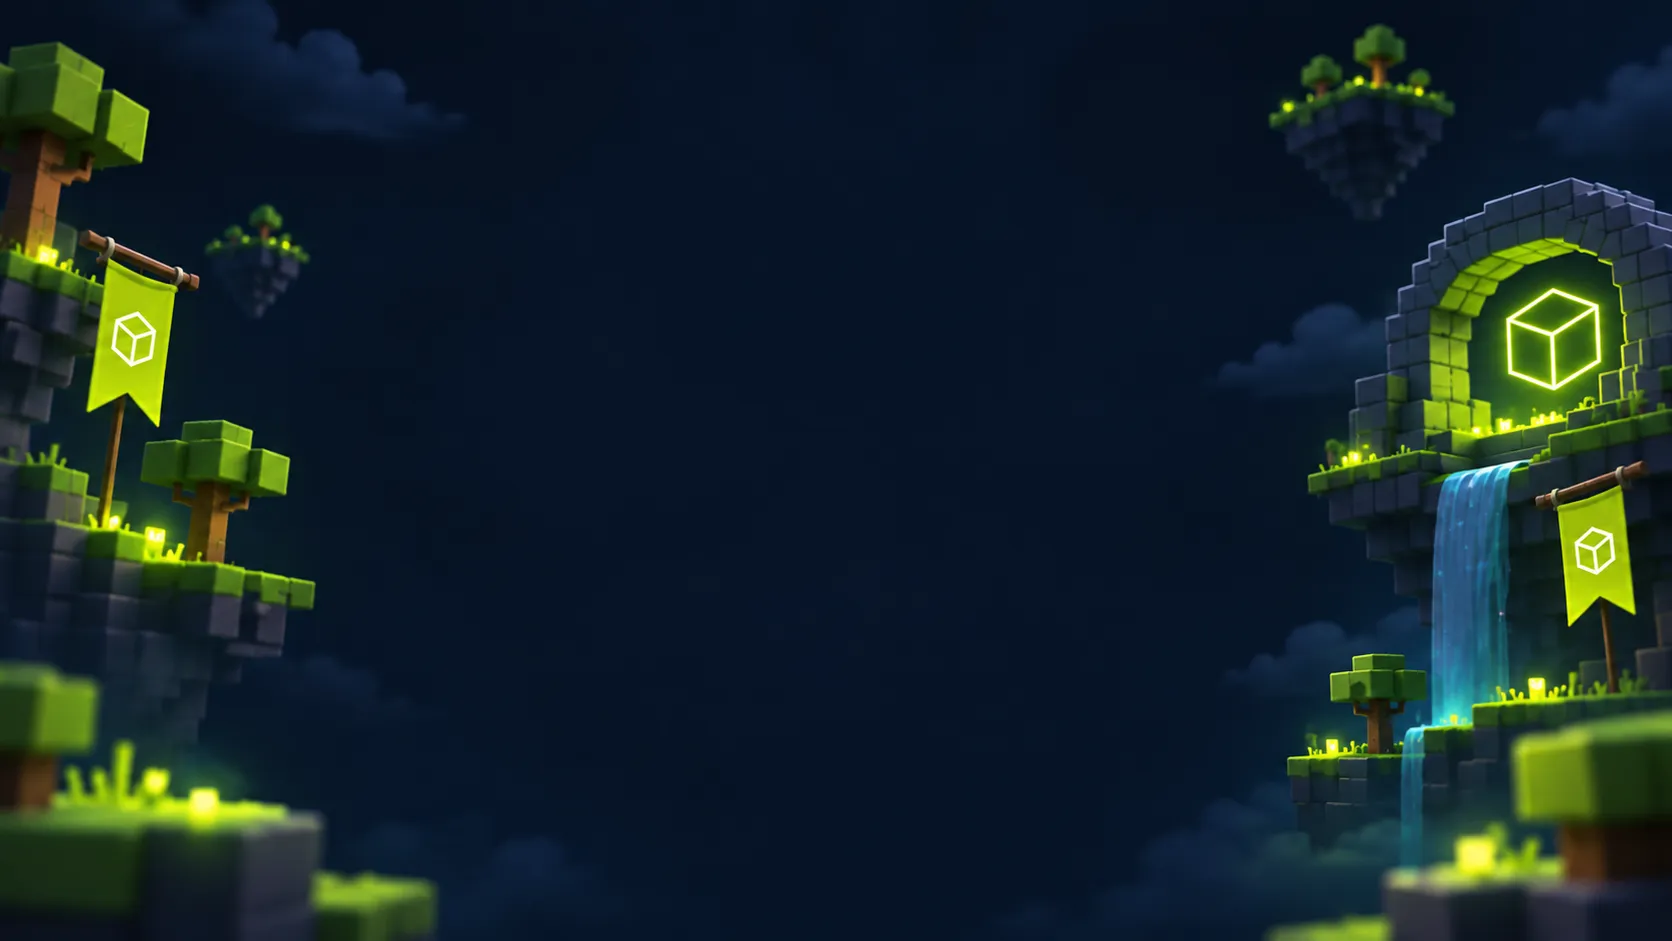
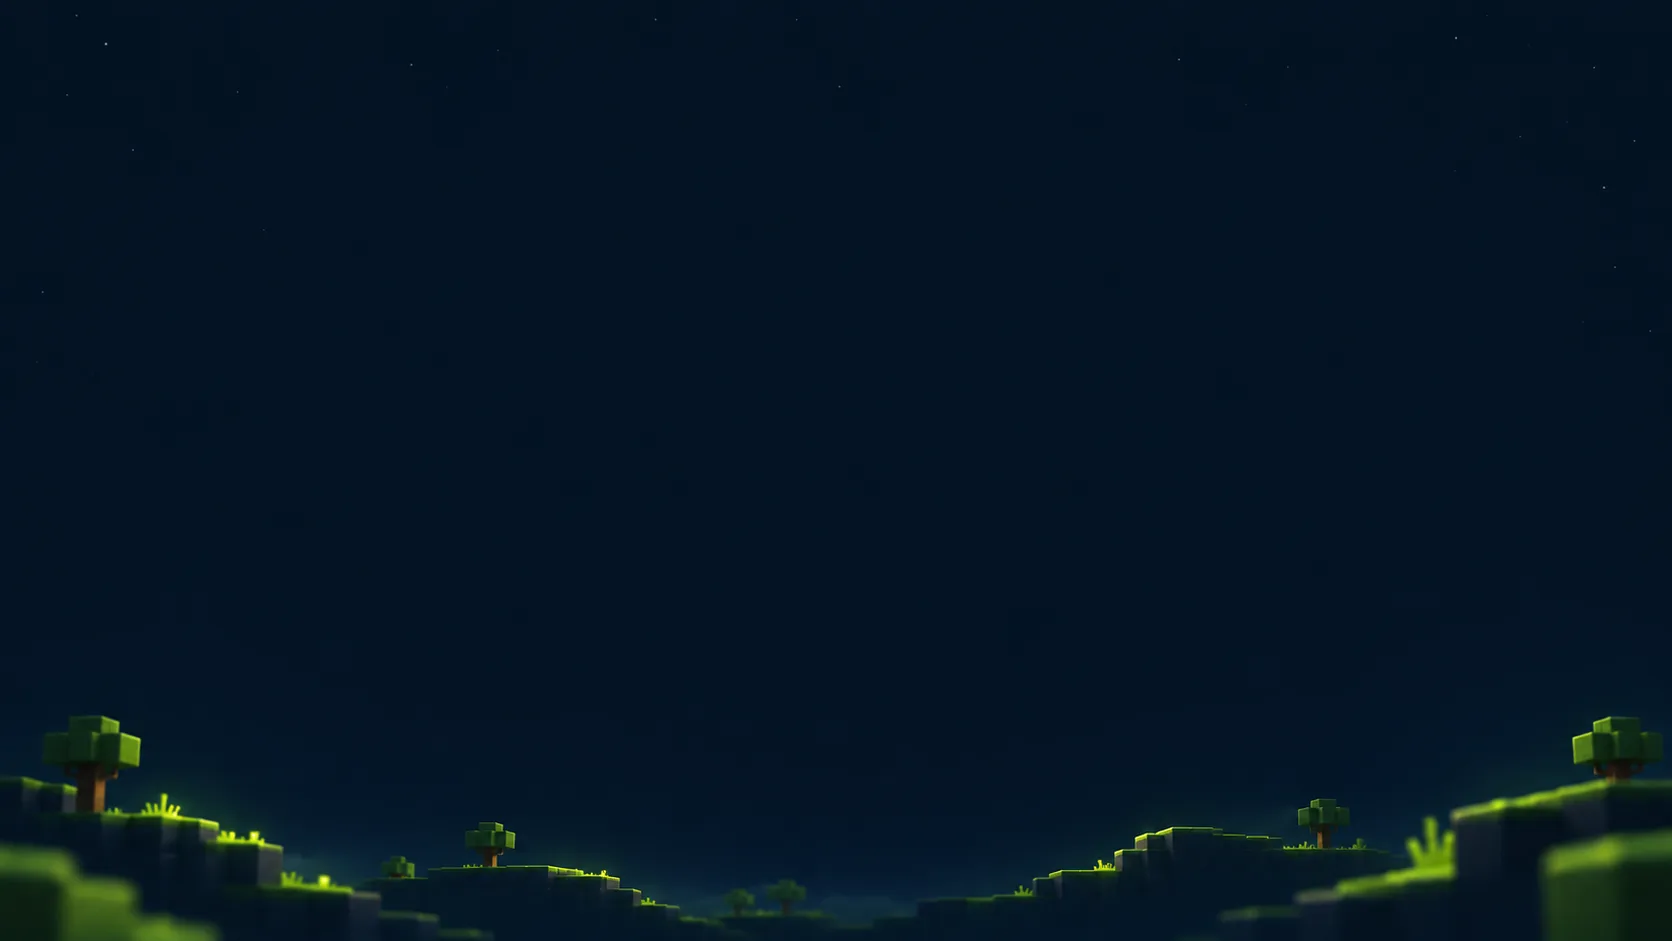
Calmer background: night sky with low voxel hills (#36)
ahmet found the busier world art too crowded; the new picture keeps the
center empty, so the dimming band is no longer needed.

Claude-Session: https://claude.ai/code/session_01GTtXXD52sCYH7XwpJkAKia

diff --git a/src/app/layout.tsx b/src/app/layout.tsx
@@ -29,10 +29,8 @@ export default async function RootLayout({ children }: { children: React.ReactNo
   return (
     <html lang="en" className={`${body.variable} ${mono.variable} ${display.variable}`}>
       <body>
-        {/* The voxel night world: fixed behind every page, edges only (the middle of the picture is empty sky). */}
-        <div aria-hidden className="pointer-events-none fixed inset-0 z-0 bg-navy bg-[url(/world.webp)] bg-cover bg-top bg-no-repeat max-sm:opacity-60" />
-        {/* Dims the art behind the content column so text stays easy to read; the world shows fully at the sides. */}
-        <div aria-hidden className="pointer-events-none fixed inset-0 z-0 bg-[linear-gradient(90deg,transparent_0%,rgba(6,20,39,.72)_20%,rgba(6,20,39,.72)_80%,transparent_100%)]" />
+        {/* Night sky with low voxel hills along the bottom: fixed behind every page, the hills always sit at the bottom of the screen. */}
+        <div aria-hidden className="pointer-events-none fixed inset-0 z-0 bg-navy bg-[url(/world.webp)] bg-cover bg-bottom bg-no-repeat" />
         <Particles />
         <header className="sticky top-0 z-30 border-b border-white/[.08] bg-navy/60 backdrop-blur-xl backdrop-saturate-150">
           <nav className="mx-auto flex h-14 max-w-6xl items-center gap-1 px-4 sm:gap-2">
